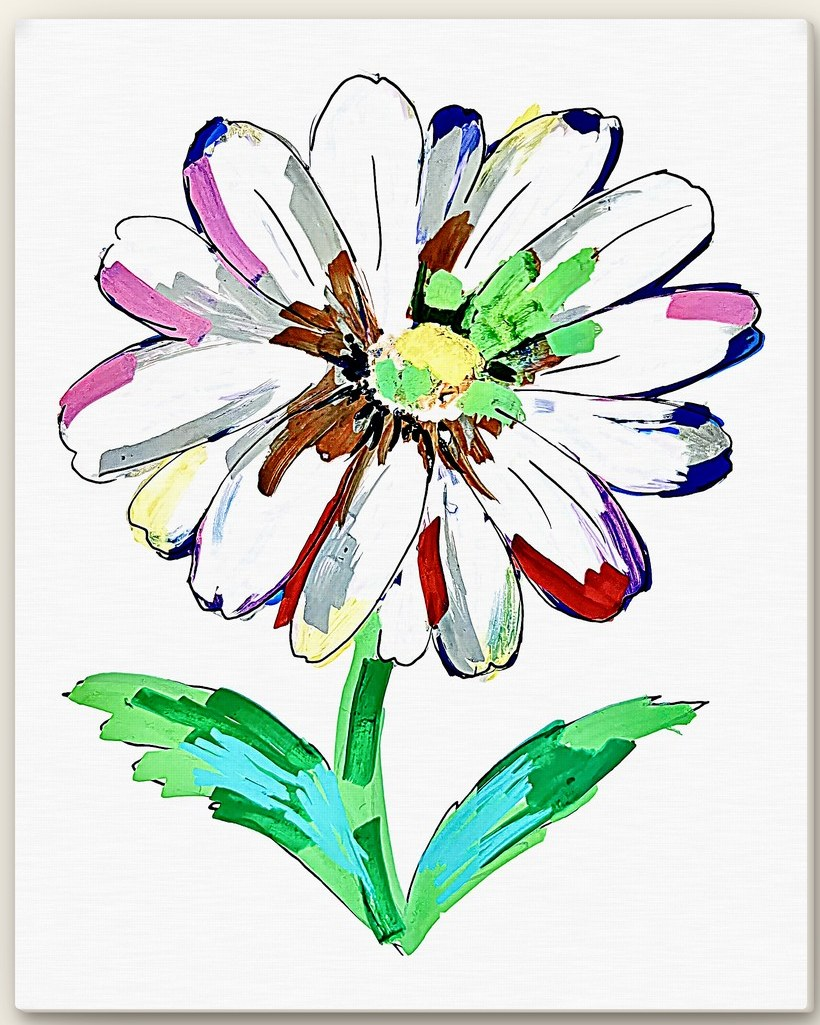
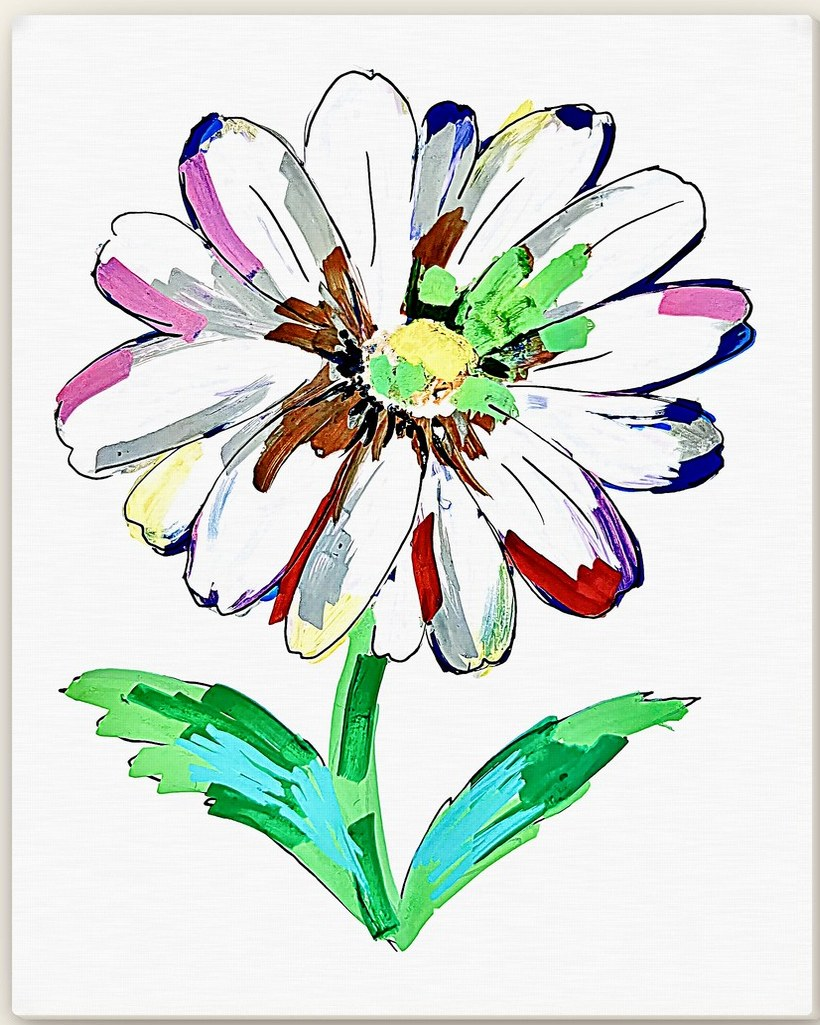
Shasta Home canvas: same frame as other items

Changed region(s): [[0.061, 0.0937, 0.9451, 0.9366], [0.0, 0.0, 1.0, 0.999], [0.3963, 0.0624, 0.4878, 0.0937]]

diff --git a/index.html b/index.html
@@ -152,7 +152,7 @@ h1{line-height:36px}
 <button class="arr l" aria-label="Previous">&lsaquo;</button>
 <div class="lib">
 <!--GALLERY-->
-<a class="card" href="com_v_shasta.jpg?v=3"><img class="cv" src="com_v_shasta.jpg?v=3" alt="Shasta Daisy" loading="lazy"><span>Shasta Daisy</span></a>
+<a class="card" href="com_v_shasta.jpg?v=4"><img class="cv" src="com_v_shasta.jpg?v=4" alt="Shasta Daisy" loading="lazy"><span>Shasta Daisy</span></a>
 <a class="card" href="com_v_fmn.jpg"><img class="cv" src="com_v_fmn.jpg" alt="Forget Me Not" loading="lazy"><span>Forget Me Not</span></a>
 <a class="card" href="com_v_swp.jpg"><img class="cv" src="com_v_swp.jpg" alt="Sweet Pea" loading="lazy"><span>Sweet Pea</span></a>
 <a class="card" href="com_v_cos.jpg"><img class="cv" src="com_v_cos.jpg" alt="Cosmos" loading="lazy"><span>Cosmos</span></a>
